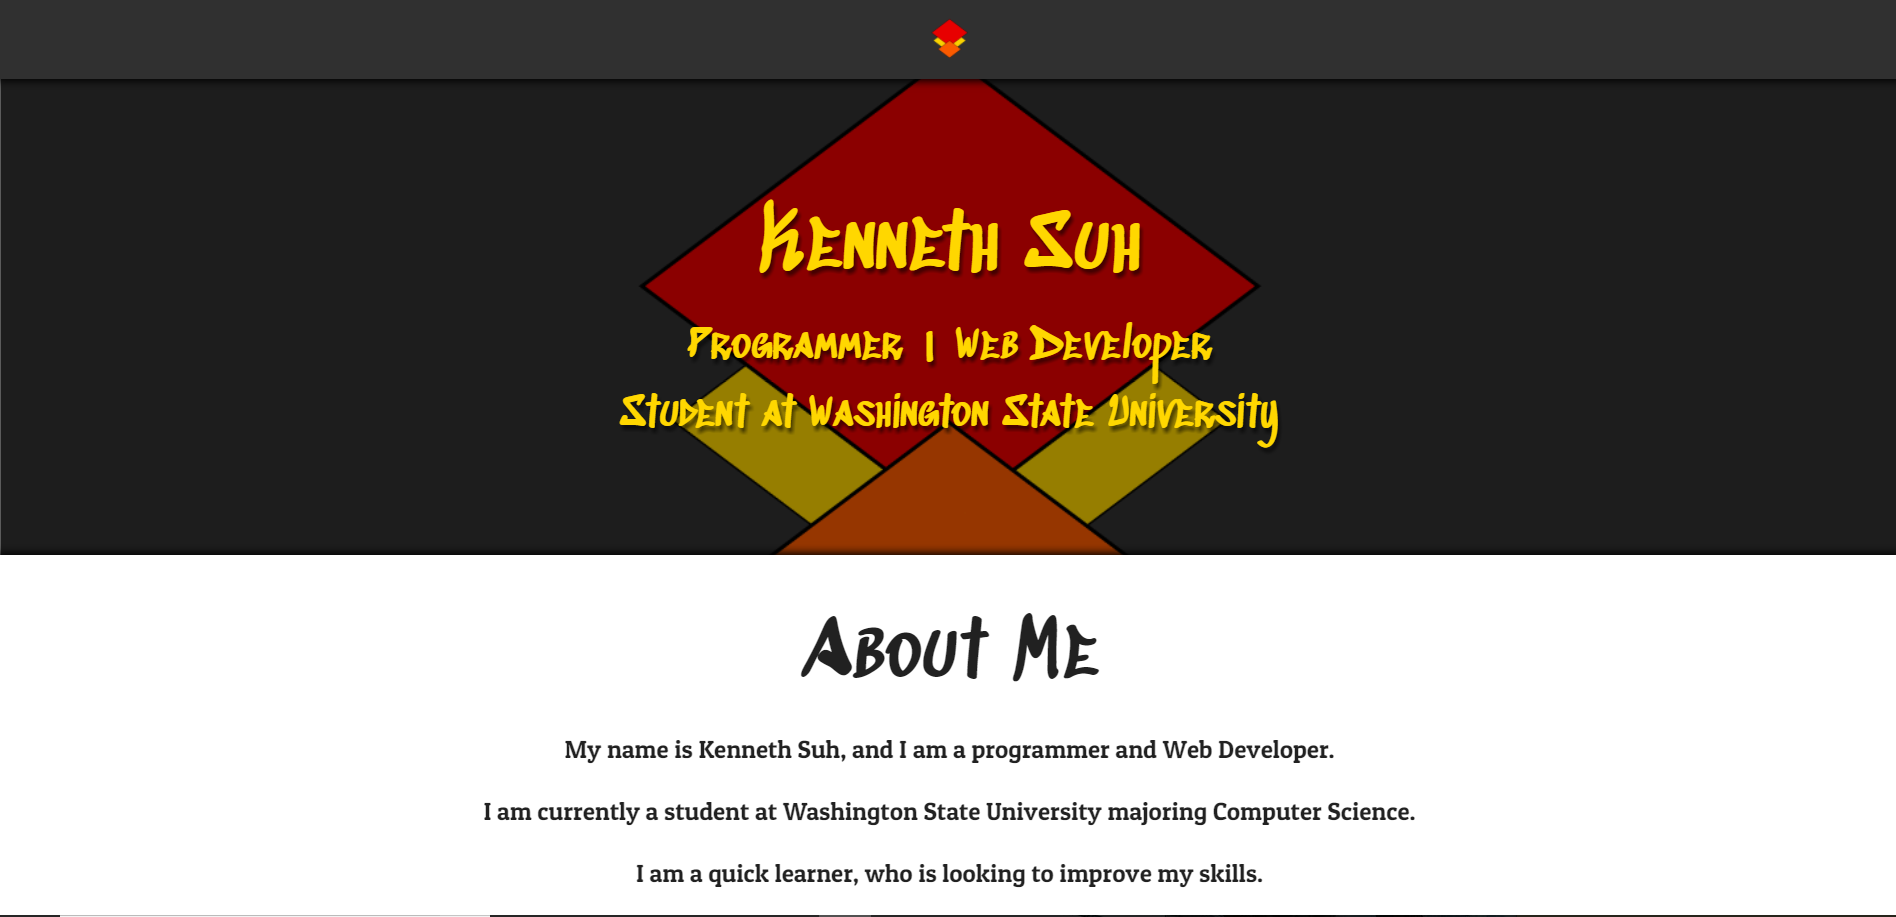
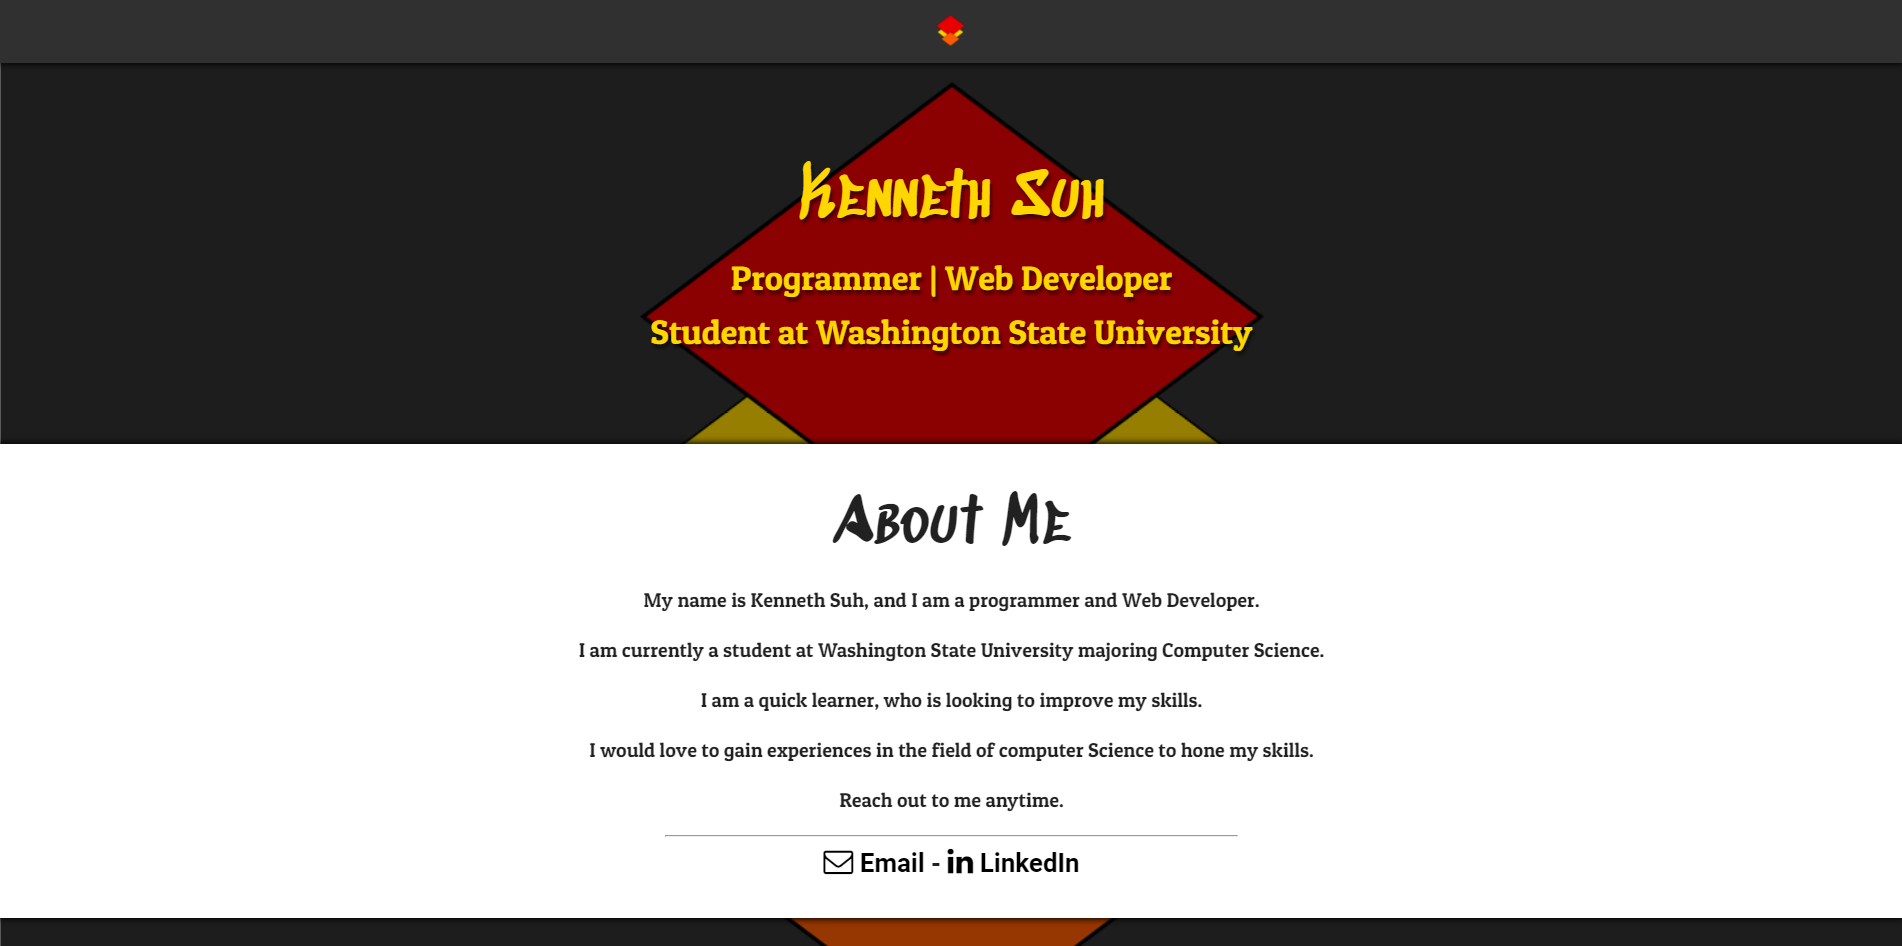
updated the font of my .list

Changed region(s): [[0.0, 0.0305, 1.0, 0.6412], [0.0, 0.6718, 1.0, 1.0]]

diff --git a/css/app.css b/css/app.css
@@ -55,6 +55,9 @@ nav.nav-wrapper ul{
 	text-shadow: 2px 4px 3px rgba(0,0,0,0.5);
 	color: rgb(255,215,0);
 }
+.list{
+	font-family: 'Patua One', cursive;
+}
 .context{
 	position: absolute;
 	width: 100%;
